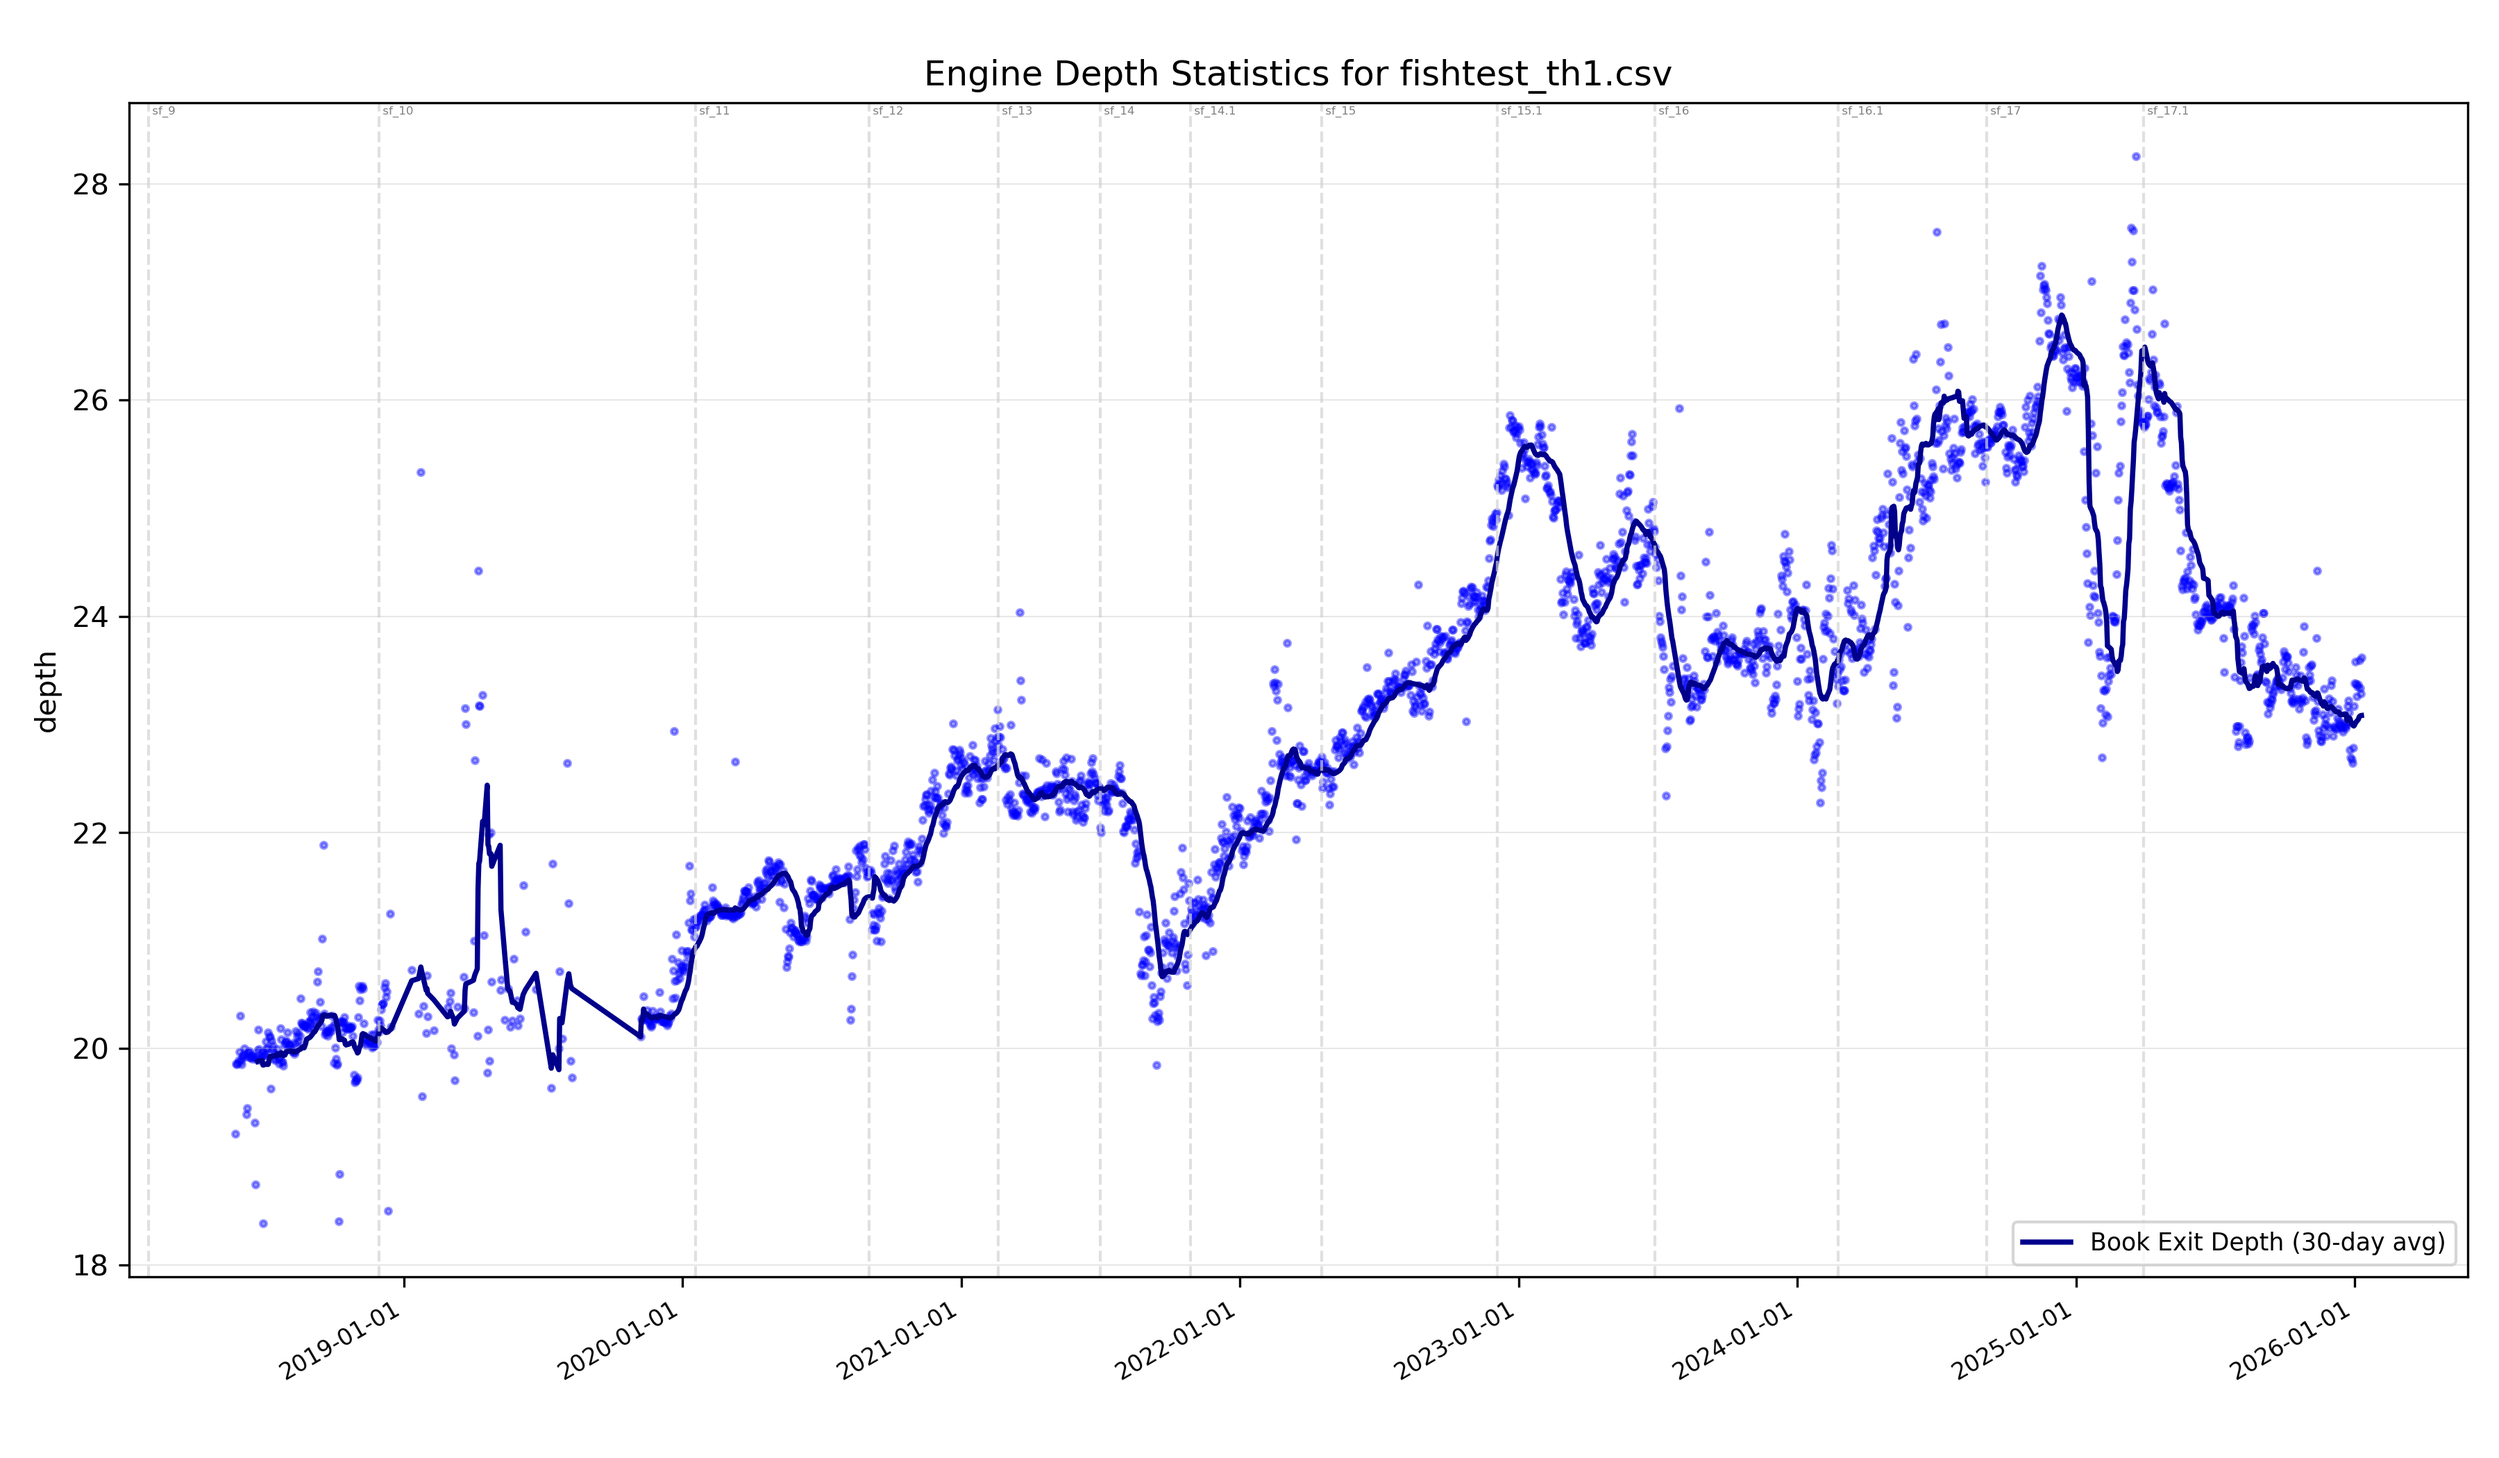
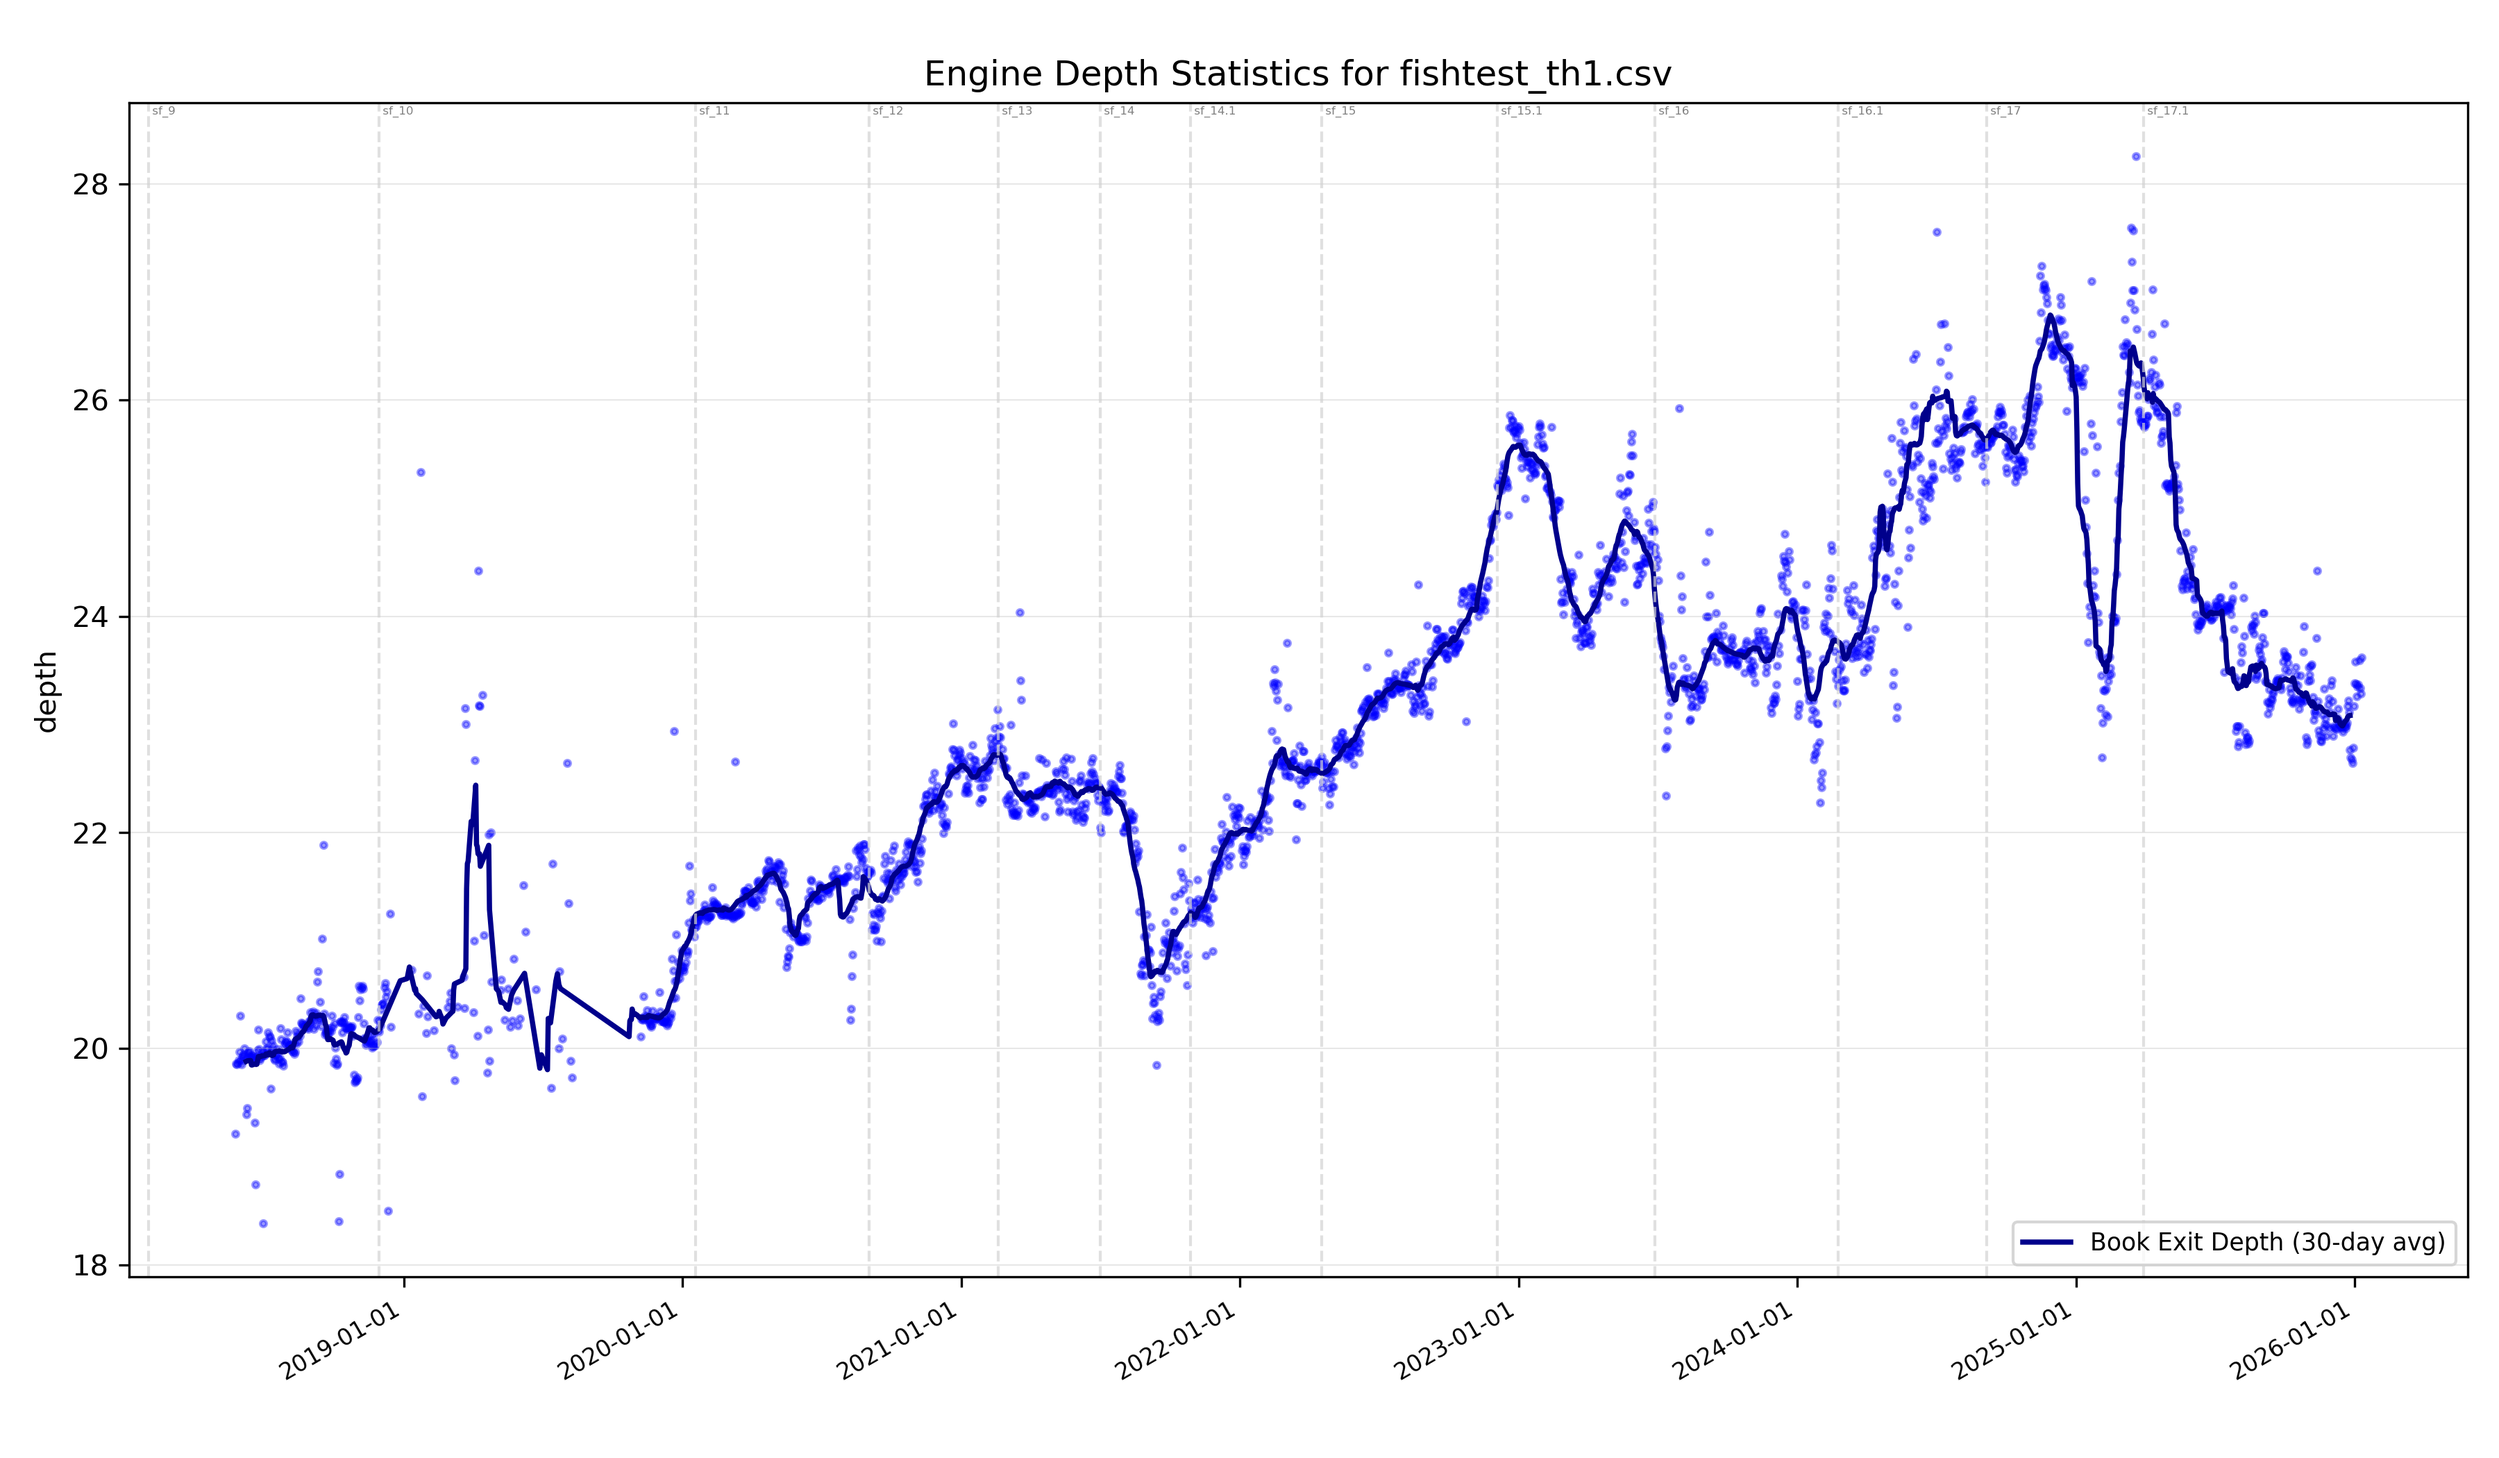
centre rolling avg

diff --git a/plot_depth_data.py b/plot_depth_data.py
@@ -49,6 +49,7 @@ class depthdata:
 
         started_rolling = False
         window_delta = timedelta(days=window_days)
+        half_window = timedelta(days=window_days / 2)
         for item in self.data:
             current_date, depthsum, depths = item
             window.append(item)
@@ -66,7 +67,7 @@ class depthdata:
 
             depth_avg = (sum_depthsum / sum_depths) if sum_depths else 0
 
-            self.rolling_dates.append(current_date)
+            self.rolling_dates.append(current_date - half_window)
             self.rolling_depth.append(depth_avg)
 
     def create_graph(self, plot_scatter=True):

diff --git a/Readme.md b/Readme.md
@@ -5,8 +5,12 @@ depths to a .csv file.
 
 By way of example, an analysis of the engines' search depth on book exit
 for all the 1-threaded games from the [Fishtest LTC collection](https://huggingface.co/datasets/official-stockfish/fishtest_pgns) is shown in
-the plot below.
+the plots below.
 
 <p align="center">
   <img src="fishtest_th1_d30.png?raw=true">
+</p>
+
+<p align="center">
+  <img src="fishtest_th1_d30_short.png?raw=true">
 </p>
